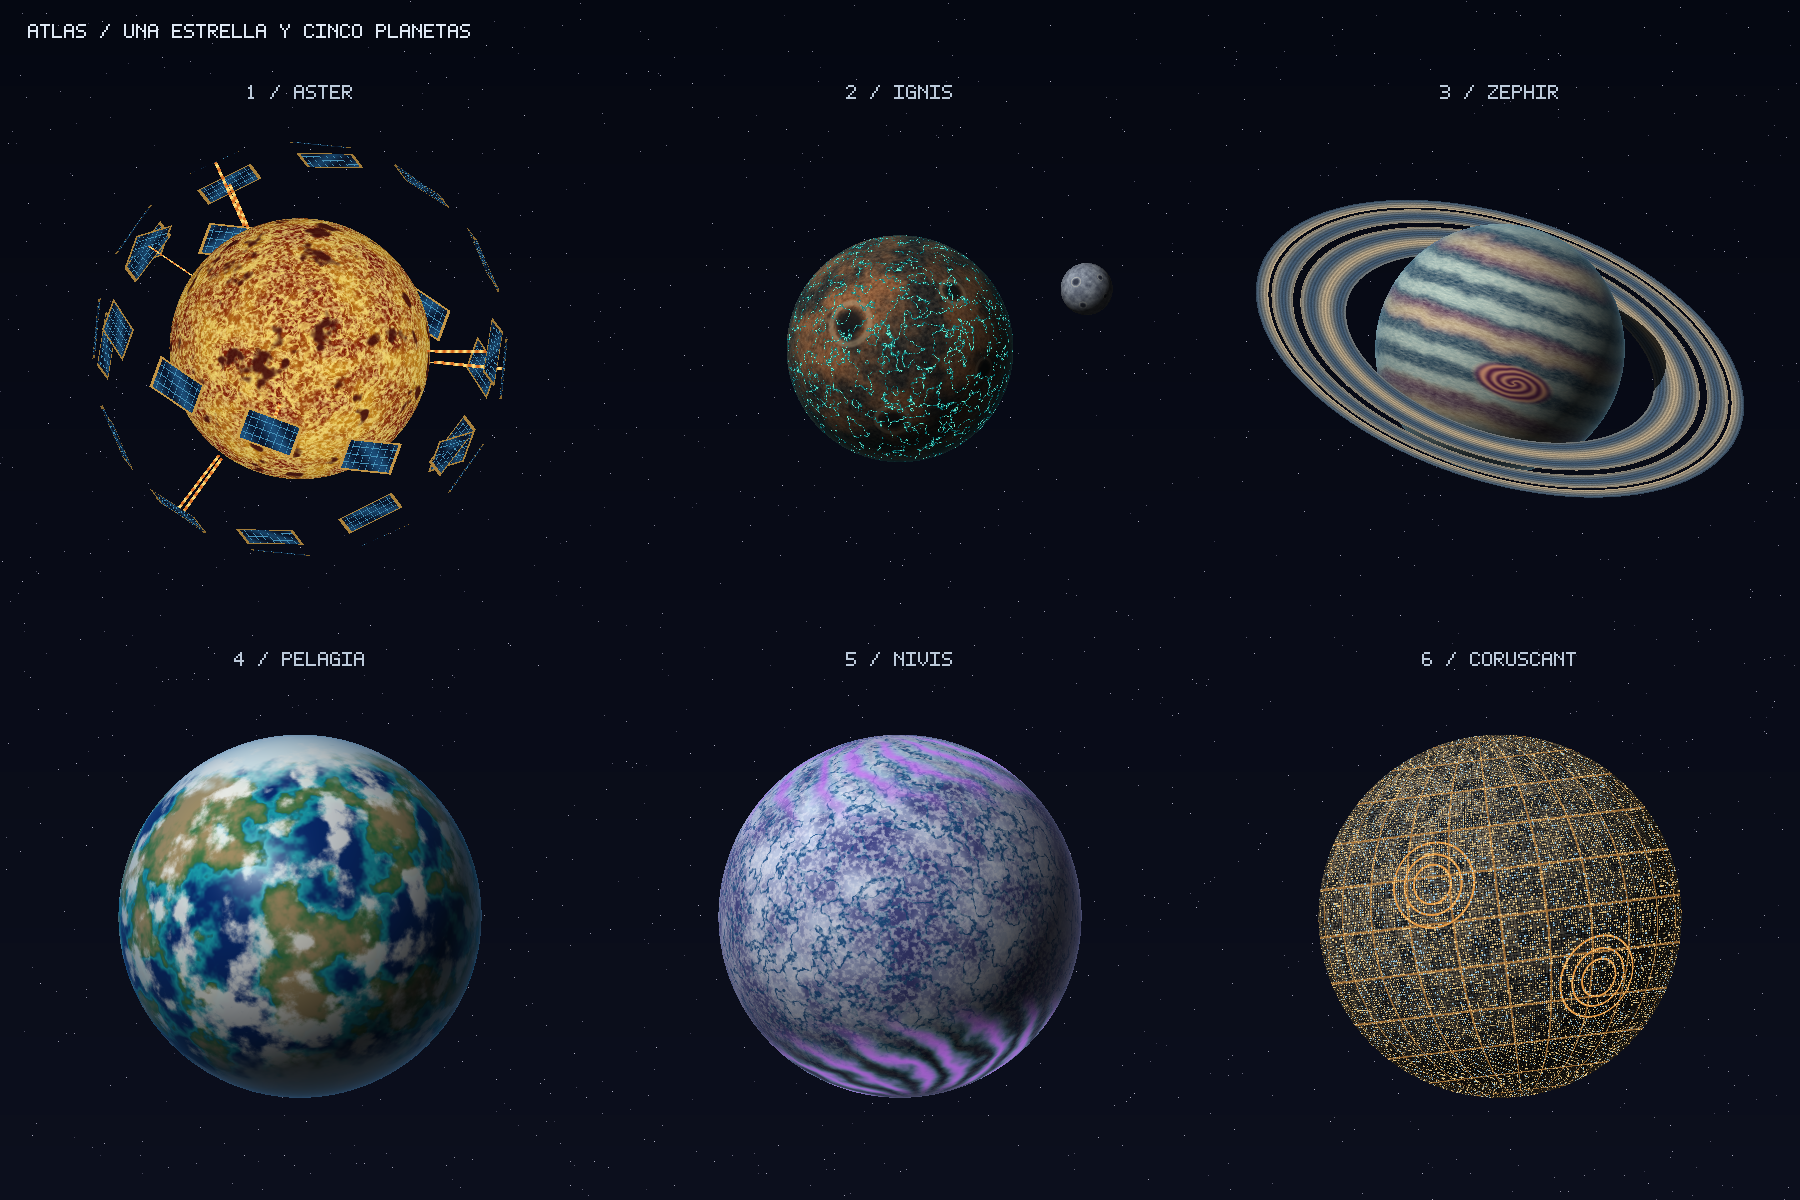
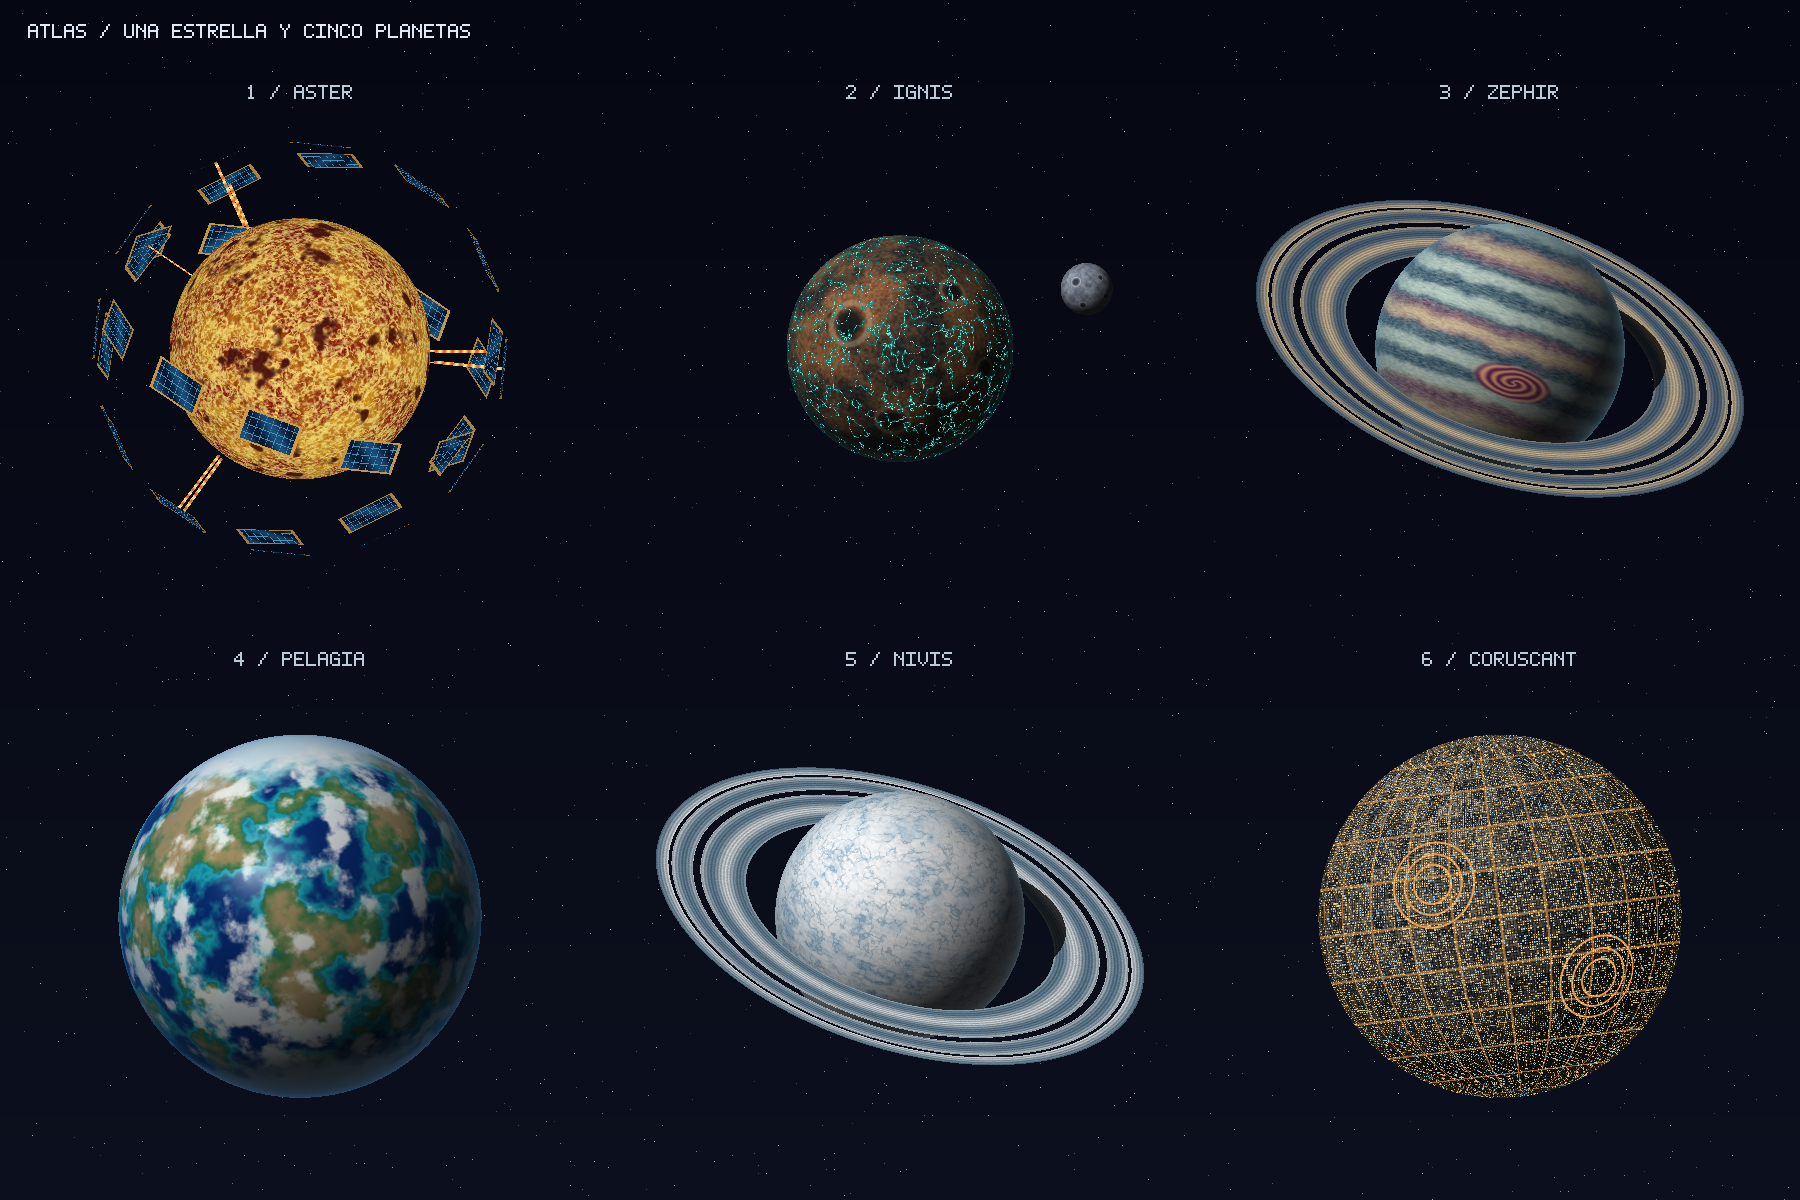
feat: convertir Nivis en mundo de nieve con anillos helados

Changed region(s): [[0.3422, 0.6167, 0.6533, 0.925]]

diff --git a/src/shaders.rs b/src/shaders.rs
@@ -12,6 +12,7 @@ pub enum Shader {
     Ice,
     City,
     Ring,
+    IceRing,
     Moon,
     Collector,
     Energy,
@@ -75,7 +76,8 @@ pub fn shade_with_light(
         Shader::Ocean => Some(ocean(fragment, layers, light)),
         Shader::Ice => Some(ice(fragment, layers, light)),
         Shader::City => Some(city(fragment, layers, light)),
-        Shader::Ring => ring(fragment, light),
+        Shader::Ring => ring(fragment, light, false),
+        Shader::IceRing => ring(fragment, light, true),
         Shader::Moon => Some(moon(fragment, light)),
         Shader::Collector => Some(collector(fragment)),
         Shader::Energy => Some(energy(fragment)),
@@ -235,7 +237,7 @@ fn gas(f: Fragment, layers: u8, light: Vec3) -> Color {
     )
 }
 
-fn ring(f: Fragment, light: Vec3) -> Option<Color> {
+fn ring(f: Fragment, light: Vec3, icy: bool) -> Option<Color> {
     let p = f.position;
     let radius = (p.x * p.x + p.z * p.z).sqrt();
     // Una division real: el fragmento se descarta y deja ver el fondo/planeta.
@@ -245,7 +247,11 @@ fn ring(f: Fragment, light: Vec3) -> Option<Color> {
     let stripes = (radius * 235.0).sin() * 0.5 + 0.5;
     let broad = (radius * 27.0).sin() * 0.5 + 0.5;
     let grain = noise(p * 130.0);
-    let color = mix(rgb(77, 106, 135), rgb(221, 198, 161), broad);
+    let color = if icy {
+        mix(rgb(106, 139, 162), rgb(236, 243, 247), broad)
+    } else {
+        mix(rgb(77, 106, 135), rgb(221, 198, 161), broad)
+    };
     let color = color * (0.62 + stripes * 0.23 + grain * 0.15);
     // Sombra analitica del planeta sobre el anillo, sin mapa de sombras.
     let scene_p = p.rotate_x(0.55).rotate_z(-0.32);
@@ -302,40 +308,48 @@ fn ocean(f: Fragment, layers: u8, light: Vec3) -> Color {
     atmosphere(color, f.normal, rgb(62, 145, 232), 0.40)
 }
 
-// NIVIS: glaciares lavanda, grietas azules y auroras polares.
+// NIVIS: mundo de nieve blanca con valles glaciares y ventiscas.
 fn ice(f: Fragment, layers: u8, light: Vec3) -> Color {
     let p = f.position;
-    // CAPA 1: placas de hielo con distinto espesor.
-    let plates = fbm(p * 4.8 + Vec3::new(6.0, 3.0, 2.0), 4);
+    // CAPA 1: manto de nieve de distinto espesor sobre hielo azulado.
+    let snow = fbm(p * 4.0 + Vec3::new(6.0, 3.0, 2.0), 4);
     let mut color = mix(
-        rgb(69, 73, 142),
-        rgb(200, 212, 238),
-        smoothstep(0.25, 0.75, plates),
+        rgb(173, 202, 223),
+        rgb(249, 251, 253),
+        smoothstep(0.18, 0.70, snow),
     );
     if layers >= 2 {
-        // CAPA 2: red de fisuras profundas dentro de las placas.
-        let cracks = 1.0 - smoothstep(0.012, 0.055, (fbm(p * 11.0, 4) - 0.5).abs());
-        color = mix(color, rgb(23, 81, 139), cracks * 0.88);
+        // CAPA 2: valles glaciares y crestas de cordilleras cubiertas de nieve.
+        let terrain = fbm(p * 14.0, 4);
+        let valleys = 1.0 - smoothstep(0.015, 0.065, (terrain - 0.50).abs());
+        let peaks = smoothstep(0.55, 0.72, terrain);
+        color = mix(color, rgb(91, 140, 174), valleys * 0.38);
+        color = mix(color, rgb(252, 253, 255), peaks * 0.7);
     }
     if layers >= 3 {
-        // CAPA 3: escarcha y nieve granular acumulada en zonas frias.
-        let frost = fbm(p * 55.0, 3);
+        // CAPA 3: grano fino de nieve y surcos superficiales del viento.
+        let frost = fbm(p * 75.0, 3);
+        let drift = (p.y * 145.0 + snow * 31.0).sin() * 0.5 + 0.5;
+        color = color * (0.86 + frost * 0.18 + drift * 0.06);
+    }
+    if layers >= 4 {
+        // CAPA 4: frentes de ventisca y acumulaciones blancas sobre el terreno.
+        let blizzard = fbm(
+            Vec3::new(p.x * 7.0, p.y * 25.0, p.z * 7.0) + Vec3::new(3.0, 8.0, 5.0),
+            4,
+        );
         color = mix(
             color,
-            rgb(242, 244, 255),
-            smoothstep(0.38, 0.70, frost) * 0.58,
+            rgb(251, 254, 255),
+            smoothstep(0.40, 0.67, blizzard) * 0.72,
         );
     }
-    let mut color = lighting(color, f.normal, light);
-    if layers >= 4 {
-        // CAPA 4: cortinas de aurora, coloreadas cerca de los polos.
-        let longitude = p.x.atan2(p.z);
-        let ribbon = (longitude * 13.0 + p.y * 23.0 + plates * 7.0).sin() * 0.5 + 0.5;
-        let polar = smoothstep(0.48, 0.82, p.y.abs()) * (1.0 - smoothstep(0.93, 1.0, p.y.abs()));
-        let tint = mix(rgb(79, 237, 207), rgb(196, 111, 242), ribbon);
-        color = mix(color, tint, ribbon * polar * 0.78);
-    }
-    atmosphere(color, f.normal, rgb(161, 166, 248), 0.42)
+    atmosphere(
+        lighting(color, f.normal, light),
+        f.normal,
+        rgb(157, 205, 236),
+        0.30,
+    )
 }
 
 // CORUSCANT: ecumenopolis inspirada en Star Wars, con luces urbanas emisivas.

diff --git a/tests/rendering.rs b/tests/rendering.rs
@@ -52,6 +52,11 @@ fn noise_is_continuous_at_cell_boundaries_and_in_range() {
 
 #[test]
 fn rings_occlude_and_are_occluded_independent_of_draw_order() {
+    assert_ring_depth(Shader::Gas, Shader::Ring);
+    assert_ring_depth(Shader::Ice, Shader::IceRing);
+}
+
+fn assert_ring_depth(planet: Shader, ring_shader: Shader) {
     let sphere = Mesh::sphere(24, 48);
     let ring = Mesh::ring(96);
     let transform = Transform {
@@ -70,11 +75,11 @@ fn rings_occlude_and_are_occluded_independent_of_draw_order() {
         let mut fb = Framebuffer::new(160, 160);
         fb.clear_space();
         if reverse {
-            draw_mesh(&mut fb, &ring, ring_transform, Shader::Ring, 4);
+            draw_mesh(&mut fb, &ring, ring_transform, ring_shader, 4);
         }
-        draw_mesh(&mut fb, &sphere, transform, Shader::Gas, 4);
+        draw_mesh(&mut fb, &sphere, transform, planet, 4);
         if !reverse {
-            draw_mesh(&mut fb, &ring, ring_transform, Shader::Ring, 4);
+            draw_mesh(&mut fb, &ring, ring_transform, ring_shader, 4);
         }
         outputs.push(fb.pixels);
     }
@@ -85,10 +90,10 @@ fn rings_occlude_and_are_occluded_independent_of_draw_order() {
     background.clear_space();
     let mut only_sphere = Framebuffer::new(160, 160);
     only_sphere.clear_space();
-    draw_mesh(&mut only_sphere, &sphere, transform, Shader::Gas, 4);
+    draw_mesh(&mut only_sphere, &sphere, transform, planet, 4);
     let mut only_ring = Framebuffer::new(160, 160);
     only_ring.clear_space();
-    draw_mesh(&mut only_ring, &ring, ring_transform, Shader::Ring, 4);
+    draw_mesh(&mut only_ring, &ring, ring_transform, ring_shader, 4);
     let (mut ring_in_front, mut sphere_in_front) = (0, 0);
     for (i, &bg) in background.pixels.iter().enumerate() {
         let s = only_sphere.pixels[i];
@@ -134,6 +139,44 @@ fn every_layer_changes_each_body_and_full_render_is_not_flat() {
         let unique: std::collections::HashSet<_> = previous.into_iter().collect();
         assert!(unique.len() > 500, "{body:?}: imagen casi plana");
     }
+}
+
+#[test]
+fn snow_planet_ring_toggle_hides_the_rings_and_preserves_the_center() {
+    let scene = Scene::new();
+    let mut visible = Framebuffer::new(240, 180);
+    let mut hidden = Framebuffer::new(240, 180);
+    let settings = Settings {
+        body: Body::Ice,
+        ..Settings::default()
+    };
+    scene.render(&mut visible, settings);
+    scene.render(
+        &mut hidden,
+        Settings {
+            rings: false,
+            ..settings
+        },
+    );
+    assert_eq!(
+        visible.pixels[90 * 240 + 120],
+        hidden.pixels[90 * 240 + 120]
+    );
+    let radius = 180.0_f32 * 0.245;
+    let mut outside = 0;
+    for y in 0..180 {
+        for x in 0..240 {
+            let distance = ((x as f32 - 120.0).powi(2) + (y as f32 - 90.0).powi(2)).sqrt();
+            if distance > radius * 1.05 && visible.pixels[y * 240 + x] != hidden.pixels[y * 240 + x]
+            {
+                outside += 1;
+            }
+        }
+    }
+    assert!(
+        outside > 1000,
+        "los anillos de Nivis no aparecen fuera de su esfera"
+    );
 }
 
 #[test]

diff --git a/src/scene.rs b/src/scene.rs
@@ -53,7 +53,7 @@ impl Body {
             Self::Rocky => "IGNIS - Planeta rocoso",
             Self::Gas => "ZEPHIR - Gigante gaseoso",
             Self::Ocean => "PELAGIA - Planeta oceanico",
-            Self::Ice => "NIVIS - Planeta helado",
+            Self::Ice => "NIVIS - Planeta de nieve",
             Self::City => "CORUSCANT - Planeta ciudad",
         }
     }
@@ -76,6 +76,10 @@ impl Body {
             Self::Ice => 0.19,
             Self::City => 0.23,
         }
+    }
+
+    pub fn has_rings(self) -> bool {
+        matches!(self, Self::Gas | Self::Ice)
     }
 }
 
@@ -294,7 +298,7 @@ impl Scene {
         let center = Vec3::new(fb.width as f32 * 0.5, fb.height as f32 * 0.5, 0.0);
         let fraction = match settings.body {
             Body::Star if settings.dyson => 0.23,
-            Body::Gas => 0.245,
+            Body::Gas | Body::Ice => 0.245,
             Body::Rocky if settings.moon => 0.27,
             _ => 0.32,
         };
@@ -327,8 +331,12 @@ impl Scene {
             center,
             scale: radius,
             rotation_y: settings.angle + settings.time * settings.body.spin_rate(),
-            rotation_x: 0.0,
-            rotation_z: if settings.body == Body::Gas {
+            rotation_x: if settings.body == Body::Ice {
+                0.55
+            } else {
+                0.0
+            },
+            rotation_z: if settings.body.has_rings() {
                 -0.32
             } else {
                 0.12
@@ -346,14 +354,19 @@ impl Scene {
         if settings.body == Body::Star && settings.dyson {
             self.draw_dyson(fb, settings, center, radius);
         }
-        if settings.body == Body::Gas && settings.rings {
+        if settings.body.has_rings() && settings.rings {
             let transform = Transform {
                 rotation_y: 0.0,
                 rotation_x: 0.55,
                 rotation_z: -0.32,
                 ..transform
             };
-            draw_mesh_lit(fb, &self.ring, transform, Shader::Ring, 4, light);
+            let shader = if settings.body == Body::Ice {
+                Shader::IceRing
+            } else {
+                Shader::Ring
+            };
+            draw_mesh_lit(fb, &self.ring, transform, shader, 4, light);
         }
         if settings.body == Body::Rocky && settings.moon {
             // Transformacion jerarquica: centro lunar = centro ACTUAL del planeta
@@ -495,7 +508,7 @@ impl Scene {
                 },
                 &self.small_sphere,
             );
-            let envelope = if orbit.body == Body::Gas && settings.rings {
+            let envelope = if orbit.body.has_rings() && settings.rings {
                 radius * 2.03
             } else {
                 radius
@@ -595,7 +608,7 @@ impl Scene {
             );
             let fraction = match body {
                 Body::Star => 0.23,
-                Body::Gas => 0.22,
+                Body::Gas | Body::Ice => 0.22,
                 Body::Rocky => 0.20,
                 _ => 0.32,
             };

diff --git a/README.md b/README.md
@@ -33,14 +33,14 @@ triangulos ni calcula los patrones del planeta.
 | --- | --- |
 | `0` | Vista del sistema completo |
 | `1` / `2` / `3` | Aster, estrella / Ignis, rocoso / Zephir, gaseoso |
-| `4` / `5` / `6` | Pelagia, oceanico / Nivis, helado / Coruscant, ciudad |
+| `4` / `5` / `6` | Pelagia, oceanico / Nivis, nieve con anillos / Coruscant, ciudad |
 | `L` | Cambiar capas acumuladas: 4 → 1 → 2 → 3 → 4 |
 | Flechas izquierda / derecha | Individual: girar el cuerpo. Sistema: retroceder o avanzar el tiempo |
 | Espacio | Pausar o reanudar toda la simulacion |
 | `+` / `-` | Aumentar / reducir velocidad entre x0.25 y x4; tambien sirve `=` para aumentar |
 | `T` | Reiniciar tiempo y rotacion manual |
 | `O` | Mostrar u ocultar las guias de las orbitas |
-| `R` | Mostrar u ocultar anillos del gigante gaseoso |
+| `R` | Mostrar u ocultar los anillos de Zephir y Nivis |
 | `M` | Mostrar u ocultar luna del planeta rocoso |
 | `D` | Mostrar u ocultar las placas del enjambre de Dyson alrededor del Sol |
 | `S` / `F12` | Guardar el framebuffer actual en `screenshots/captura_<vista>.png` |
@@ -88,7 +88,7 @@ comprobar visualmente lo que agrega cada una.
 | Ignis, rocoso | Basalto y minerales cobrizos | Grano mineral fino | Crateres con cuenca y borde | Fracturas emisivas turquesa |
 | Zephir, gaseoso | Bandas por latitud | Cinturones de composicion distinta | Nubes y filamentos finos | Tormenta oval con remolino |
 | Pelagia, oceanico | Oceanos y continentes | Costas, aguas someras y montanas | Casquetes polares | Sistemas de nubes |
-| Nivis, helado | Placas de hielo | Fisuras azules | Escarcha granular | Auroras polares |
+| Nivis, nieve | Manto blanco sobre hielo | Valles y cordilleras | Grano de nieve y surcos | Ventiscas y acumulaciones |
 | Coruscant, ciudad | Distritos metalicos | Manzanas, azoteas y callejones | Avenidas y circunvalaciones | Ventanas y trafico emisivos |
 
 ### Aster — estrella
@@ -136,13 +136,17 @@ Oceanos profundos, aguas turquesa junto a la costa, continentes verdes con zonas
 montanosas, hielo polar y nubes blancas. Un reflejo calculado sobre el agua
 complementa la iluminacion difusa. Todas las regiones se calculan con ruido 3D.
 
-### Nivis — planeta helado adicional
+### Nivis — planeta de nieve con anillos
 
 ![Nivis](screenshots/helado.png)
 
-Placas lavanda de distintos espesores, red de fisuras azules, escarcha y cortinas
-de aurora verde/violeta cerca de ambos polos. Las auroras afectan el color sobre
-la esfera y conservan brillo en la noche; no son una textura ni un halo exterior.
+Mundo cubierto de nieve blanca y hielo azul palido, con valles glaciares,
+cordilleras nevadas, nieve granular y frentes de ventisca. Sus cuatro capas de
+color se calculan sin texturas. La inclinacion del planeta coincide con el plano
+de sus **anillos plateados tipo Saturno**, que son una malla separada con divisiones
+y bandas finas. Su shader usa una paleta de particulas heladas distinta de Zephir.
+Pulsa `5` para verlo de cerca y `R` para comparar la vista sin anillos. Tambien
+aparece con sus anillos en el sistema completo y en la comparativa.
 
 ### Coruscant — planeta ciudad adicional
 
@@ -193,8 +197,8 @@ predeterminada. Los PNG son instantaneas estaticas, y la animacion se ve en la v
 | --- | --- |
 | Una estrella, un rocoso y un gaseoso | Aster, Ignis y Zephir, con vistas individuales |
 | Complejidad: cuatro capas que afectan el color | Cuatro por cuerpo, identificadas con `CAPA` en `src/shaders.rs` |
-| Creatividad | Seis disenos: plasma con enjambre Dyson, basalto, gas, oceanos, hielo y ciudad |
-| Anillos sin texturas ni materiales | Malla separada y shader radial con divisiones |
+| Creatividad | Seis disenos: plasma con enjambre Dyson, basalto, gas, oceanos, nieve con anillos y ciudad |
+| Anillos sin texturas ni materiales | Mallas separadas con shader radial y divisiones en Zephir y Nivis |
 | Luna | Objeto separado con transformacion y shader propios |
 | Capturas en README | Seis vistas individuales, comparativa y sistema completo |
 | Rotacion / traslacion opcionales | Rotacion de cuerpos y cinco orbitas alrededor del Sol, mas orbita lunar jerarquica |

diff --git a/SHADERS.md b/SHADERS.md
@@ -139,7 +139,7 @@ en el codigo y mostrarlo con los controles.
 ## 9. Rotacion y traslacion en el sistema completo
 
 Ahora hay **seis cuerpos principales**: una estrella y cinco planetas, mas una
-luna. Los tres planetas adicionales son Pelagia (oceanos), Nivis (hielo) y
+luna. Los tres planetas adicionales son Pelagia (oceanos), Nivis (nieve con anillos) y
 Coruscant (ciudad). Sus shaders tambien tienen cuatro efectos de color identificados.
 
 Al ejecutar `cargo run --release` veras el sistema animado. Pulsa `0` para volver
@@ -206,4 +206,17 @@ Los distritos y edificios se iluminan normalmente. Las avenidas y ventanas se
 mezclan despues de la iluminacion para conservar luz propia en la noche. La
 apariencia procede de cuatro capas de color dentro del shader, no de una textura
 ni de modelar cada edificio como geometria independiente.
+
+## 12. Nieve y anillos de Nivis
+
+El shader de Nivis combina un manto de nieve, sombras de valles glaciares,
+grano y surcos del viento, y frentes de ventisca. La paleta prioriza blancos y
+azules palidos. Todas estas variaciones ocurren antes de iluminar la superficie:
+la nieve refleja la luz y no emite luz propia.
+
+El anillo es otra malla, con el mismo tipo de geometria anular que Zephir pero
+un shader de colores plateados y azulados (`IceRing`). Conserva coordenadas
+locales sin normalizar para calcular la distancia radial y sus divisiones. El
+buffer de profundidad permite que parte del anillo pase delante del planeta y
+parte detras. `R` y `--no-rings` controlan los dos sistemas de anillos.
 
